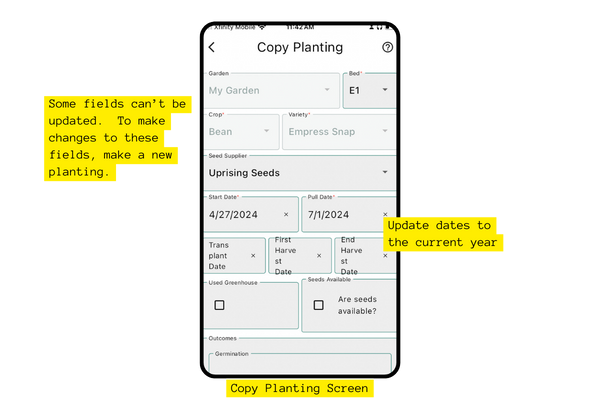
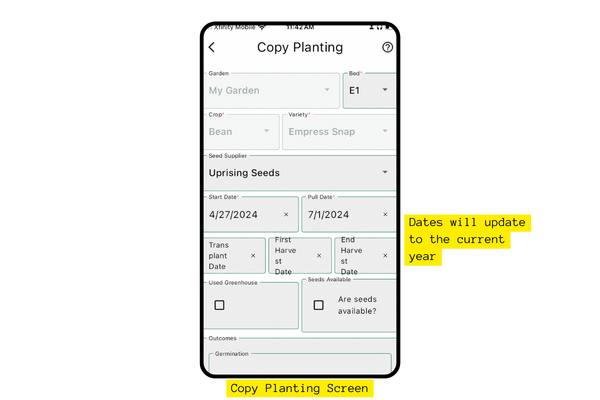
updates

Changed region(s): [[0.06, 0.24, 0.33, 0.48], [0.63, 0.51, 0.9, 0.69]]

diff --git a/docs/user-guide/guided-tour.md b/docs/user-guide/guided-tour.md
@@ -59,12 +59,18 @@ To identify who in your chapter is really good at growing tomatoes, navigate to 
 
 You can replicate the practices of another gardener by finding them in the **Gardener Index Screen** Then, select the garden you are interested in learning specifics about.  From there, you can select **Details** to see information about their timing and outcomes for each crop they have grown.
 
-A great garden planning feature is the ability to copy a planting from one year to the next or one bed to another.  Navigate to the planting and tap the copy icon at the top menu.  Update bed if needed.  Update the dates the the next year or make other adjustments as needed.  Then, select **Submit.**
+A great garden planning feature is the ability to copy a planting from one year to the next, one bed to another, or from another garden to your own.  Navigate to the planting and tap the copy icon at the top menu.  Update bed if needed.  The dates will automatically update to the current year and can be adjusted as needed.  Then, select **Submit.**
 
 <img width="600" src="/img/user-guide/copy-planting.png"/>
 
 ## I like to rotate my crops.  What did I grow in a specific garden bed over the last three years?
 
 You can see the history of what was grown in a garden bed by first navigating to that garden's **Garden Details Screen.**  Then, select **Filter** from the bottom navigation menu and at select **Filter by Bed.**  Select the bed you are interested in to see the crops that have been grown in that bed for all seasons of data you have entered into the app.
+
+## What if I know the crop but not the variety for seeds I'm planting?
+
+Sometimes you may not know the variety name of the seeds you are planting.  You can still enter the crop name and then select **Unknown Variety** from the variety dropdown menu.  This will allow you to enter the crop into your timeline without specifying the variety.  You can always update the variety later if you find out the name.
+
+
 
 _More coming soon!_
